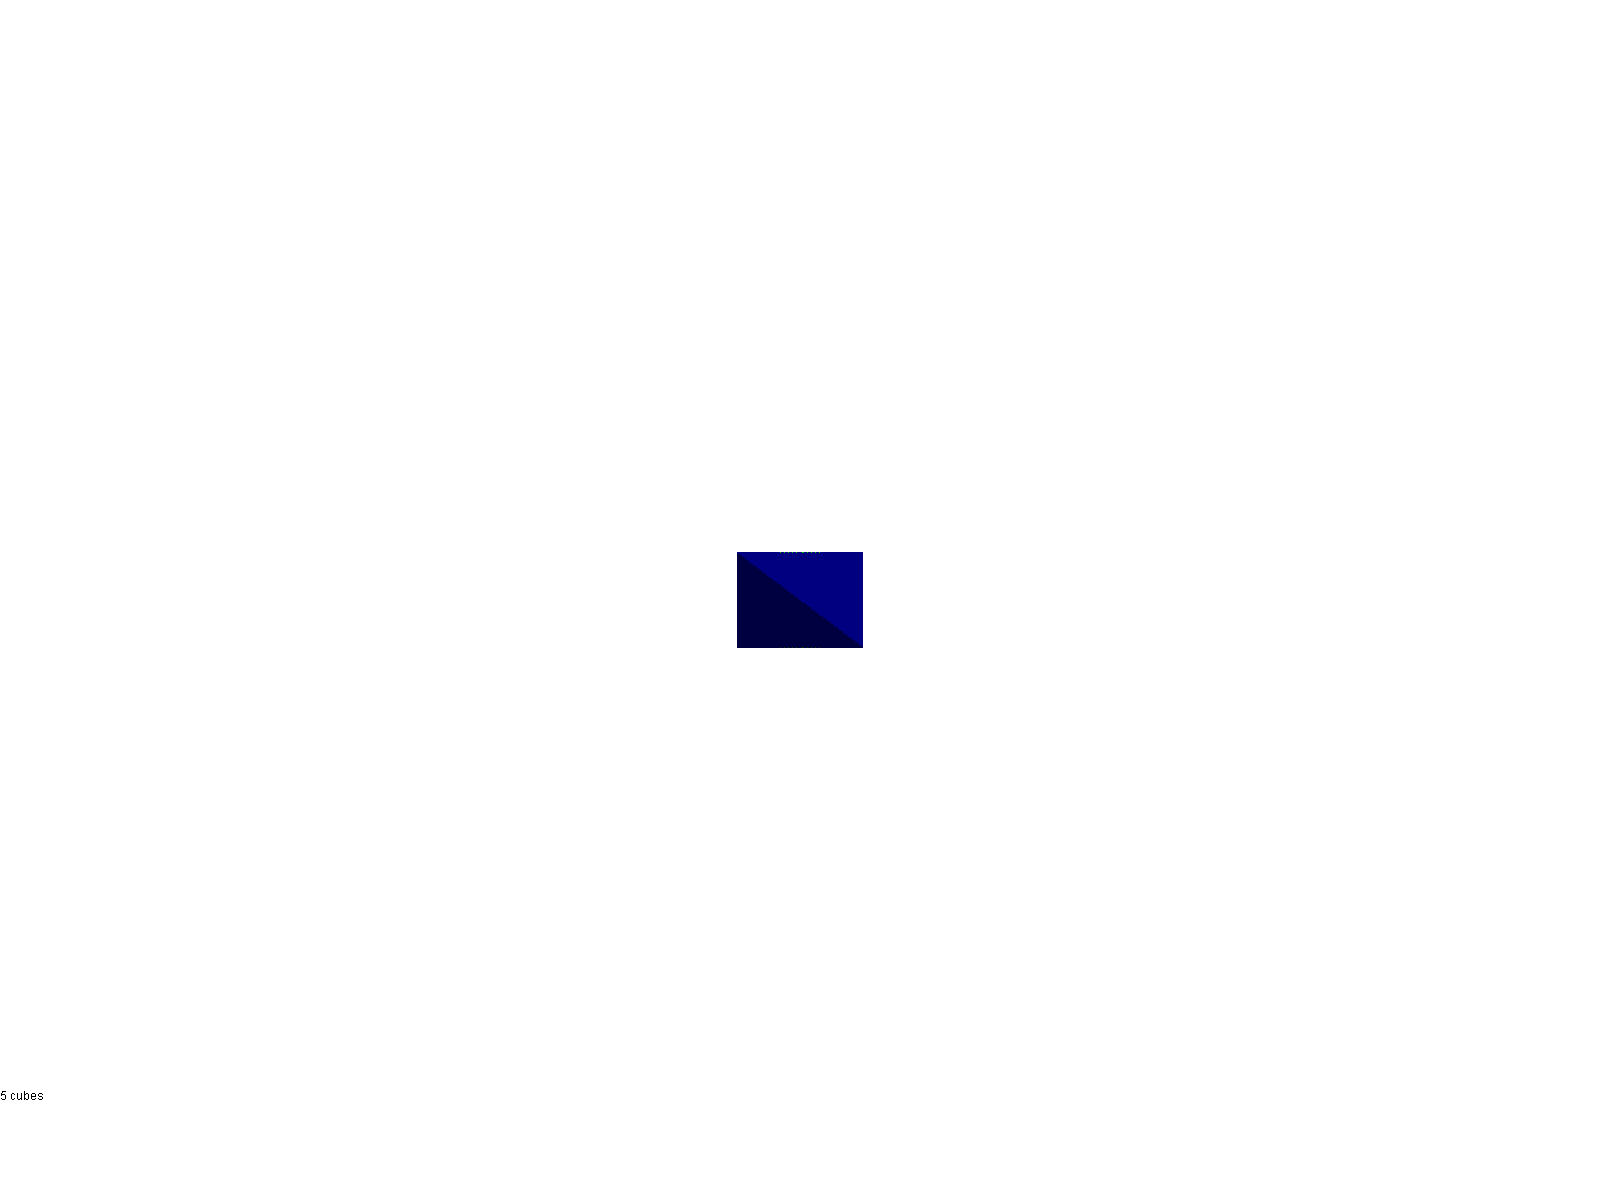
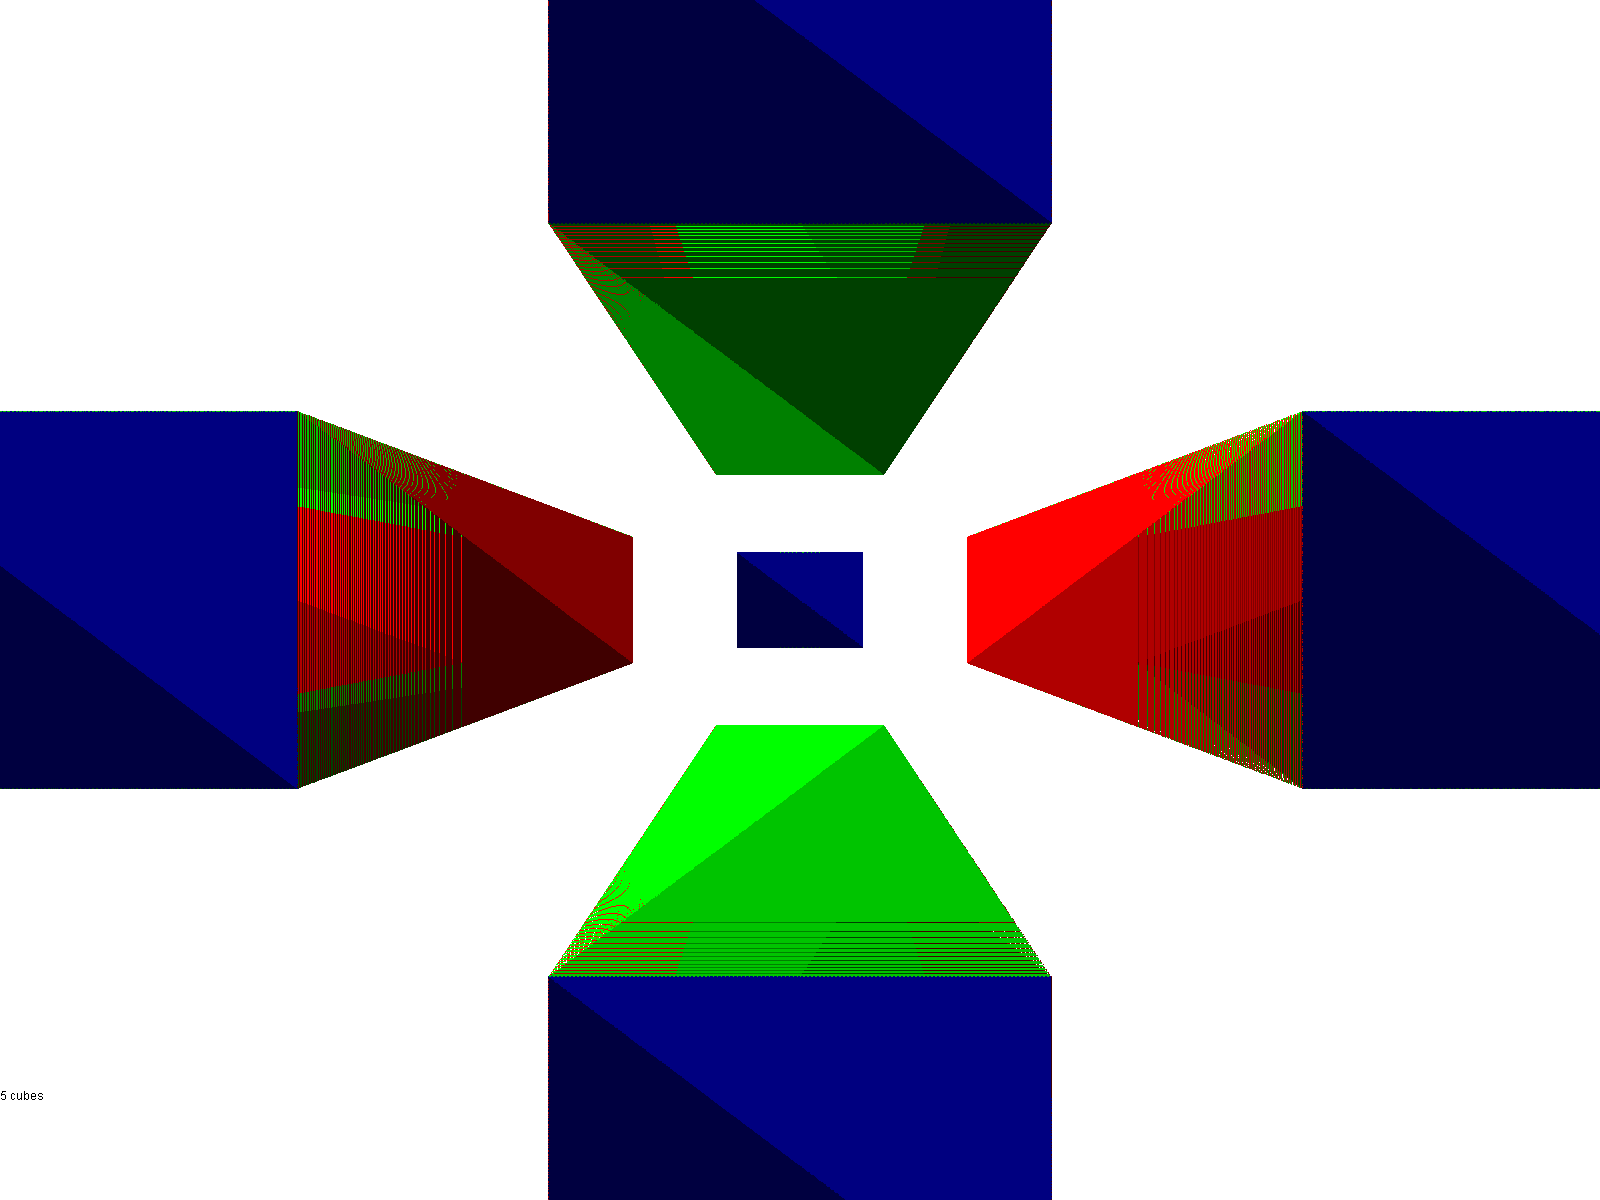
Isométrique/Caméra Perspective/Caméra

diff --git a/src/be/ibiiztera/md/pmatrix/pushmatrix/ZBufferImpl.java b/src/be/ibiiztera/md/pmatrix/pushmatrix/ZBufferImpl.java
@@ -45,9 +45,8 @@ public class ZBufferImpl implements ZBuffer {
     public int type_perspective = PERSPECTIVE_OEIL;
     protected Point3D planproj = null;
     protected Point3D camera = null;
-    private Camera cameraC = null;
+    private Camera cameraC = new Camera();
     private BufferedImage bi;
-    private Perspective perspective = Perspective.getInstance(Perspective.P_CUBIQUE_LINEAIRE);
     private int id = 0;
     private ZBufferInfo infos = new ZBufferInfo();
     // PARAMETRES
@@ -73,20 +72,15 @@ public class ZBufferImpl implements ZBuffer {
     }
 
     @Override
-    public void perspective(double camera, double planproj) {
-        type_perspective = PERSPECTIVE_OEIL;
-        this.camera = new Point3D(0, 0, camera);
-        this.planproj = new Point3D(0, 0, planproj);
-    }
-
-    @Override
     public void isometrique() {
         type_perspective = PERSPECTIVE_ISOM;
+    }
+    public void perspective() {
+        type_perspective = PERSPECTIVE_OEIL;
     }
 
     @Override
     public void camera(Camera c) {
-        type_perspective = PERSPECTIVE_OEIL;
         this.cameraC = c;
         reglerCamera(c.angleX(), c.angleY());
     }
@@ -777,7 +771,7 @@ public class ZBufferImpl implements ZBuffer {
     }
 
     public void dessinerSilhouette3D(Representable re) {
-        id++;
+        
 
         Iterator<Representable> it = null;
         // COLLECTION
@@ -887,6 +881,7 @@ public class ZBufferImpl implements ZBuffer {
 
     @Override
     public void dessinerSilhouette3D() {
+        id++;
         if (type_perspective == PERSPECTIVE_ISOM) {
             box = new Box2D();
         }
@@ -1017,14 +1012,6 @@ public class ZBufferImpl implements ZBuffer {
         return la;
     }
 
-    /**
-     * @param perspective
-     */
-    public void perspective(Perspective p) {
-        this.perspective = p;
-
-    }
-
     public void ligne(Point3D p1, Point3D p2, Color c) {
             Point x1 = coordonneesPoint2D(p1);
             Point x2 = coordonneesPoint2D(p2);
@@ -1088,6 +1075,7 @@ public class ZBufferImpl implements ZBuffer {
     }
 
     protected Point coordonneesPointEcranIsometrique(Point3D p) {
+        p = cameraC.calculerPointDansRepere(p);
         java.awt.Point p2 = new java.awt.Point(
                 (int) (la / (box.getMaxx() - box.getMinx()) * (p.getX() - box.getMinx())),
                 ha - (int) (ha / (box.getMaxy() - box.getMiny()) * (p.getY() - box.getMiny())));
@@ -1098,6 +1086,7 @@ public class ZBufferImpl implements ZBuffer {
         }
     }
 
+    @Override
     public double distanceCamera(Point3D x3d) {
         switch (type_perspective) {
             case PERSPECTIVE_ISOM:

diff --git a/src/starbuck/tests/TestAnimationSphereInterieur.java b/src/starbuck/tests/TestAnimationSphereInterieur.java
@@ -32,8 +32,6 @@ public class TestAnimationSphereInterieur extends TestObjet{
     public void testScene()
     {
         try {
-            
-            setResy(200);
             TRISphere ts =  new TRISphere(new Point3D(0,0,0), 100);
             
             ts.map(ImageIO.read(getClass().getResource("Coucherdesoleil.jpg")), "Coucherdesoleil.jpg");
@@ -49,20 +47,20 @@ public class TestAnimationSphereInterieur extends TestObjet{
     {
         double a = Math.PI;
         double b = 0;
-        Point3D pos = coordSphere(a, b, 90);
+        Point3D pos = coordSphere(a, b, 10);
         for(int i=0; i<2000; i++)
         {
             TestAnimationSphereInterieur to = new TestAnimationSphereInterieur();
             to.setResx(320);
             to.setResy(200);
-            to.camera(new Camera(pos, new Point3D(0,0,0), 0.1));
+            to.camera(new Camera(pos, new Point3D(0,0,0), pos.mult(0.9)));
             to.setFilename("image_"+(i+10000));
             to.publishResult(false);
             to.run();
             
-            a += Math.random()-0.5*Math.PI/36;
-            b += Math.random()-0.5*Math.PI/36;
-            pos = coordSphere(a, b, 90);
+            a += (Math.random()-0.5)*Math.PI/36;
+            b += (Math.random()-0.5)*Math.PI/36/2;
+            pos = coordSphere(a, b, 10);
             
             System.gc();
         }

diff --git a/src/be/ibiiztera/md/pmatrix/pushmatrix/generator/TRIObjetGenerateurAbstract.java b/src/be/ibiiztera/md/pmatrix/pushmatrix/generator/TRIObjetGenerateurAbstract.java
@@ -183,7 +183,7 @@ public abstract class TRIObjetGenerateurAbstract implements TRIObjetGenerateur {
 
                         Point p1 = z.coordonneesPoint2D(tris[t].getSommet()[c]);
                         Point p2 = z.coordonneesPoint2D(tris[t].getSommet()[(c + 1) % 3]);
-                        if (p1 != null && p2 != null) {
+                        if (p1 != null & p2 != null) {
                             double incr = 1.0 / (Math.abs(p1.getX() - p2.getX()) + Math.abs(p1.getY() - p2.getY()));
                             if (incr < incrMax) {
                                 incrMax = incr;

diff --git a/src/be/ibiiztera/md/pmatrix/test/pushmatrix/newtest/TestObjet.java b/src/be/ibiiztera/md/pmatrix/test/pushmatrix/newtest/TestObjet.java
@@ -144,12 +144,17 @@ public class TestObjet implements Test{
         try {
             ZBuffer z = ZBufferFactory.instance(resx, resy);
             z.scene(scene);
-            c.calculerMatrice();
             if(isometrique)
                 z.isometrique();
             else
+            {
+                z.perspective();
+            }
+            if(c!=null)
+            {
                 z.camera(c);
-    
+                c.calculerMatrice();
+            }
             
             z.dessinerSilhouette3D();
             

diff --git a/src/be/ibiiztera/md/pmatrix/pushmatrix/Camera.java b/src/be/ibiiztera/md/pmatrix/pushmatrix/Camera.java
@@ -31,6 +31,13 @@ public class Camera extends CameraBox implements Representable
     private Point3D planproj;
     private Matrix33 matrice;
 
+    public Camera() {
+        this.camera = new Point3D(0,0,-100);
+        this.lookat = Point3D.O0;
+        this.planproj = new Point3D(0,0,-99);
+    }
+    
+    
     public Camera(Point3D camera, Point3D lookat, Point3D planproj) {
         this.camera = camera;
         this.lookat = lookat;

diff --git a/src/be/ibiiztera/md/pmatrix/pushmatrix/ZBuffer.java b/src/be/ibiiztera/md/pmatrix/pushmatrix/ZBuffer.java
@@ -40,9 +40,10 @@ public interface ZBuffer
     public void testPoint(Point3D point3D);
     public void suivante();
     public void isometrique();
-    public void perspective(double camera, double planproj);
+    public void perspective();
     public Point coordonneesPoint2D(Point3D p);
     public double distanceCamera(Point3D p);
     public void camera(Camera c);
     public Camera camera();
+
 }
